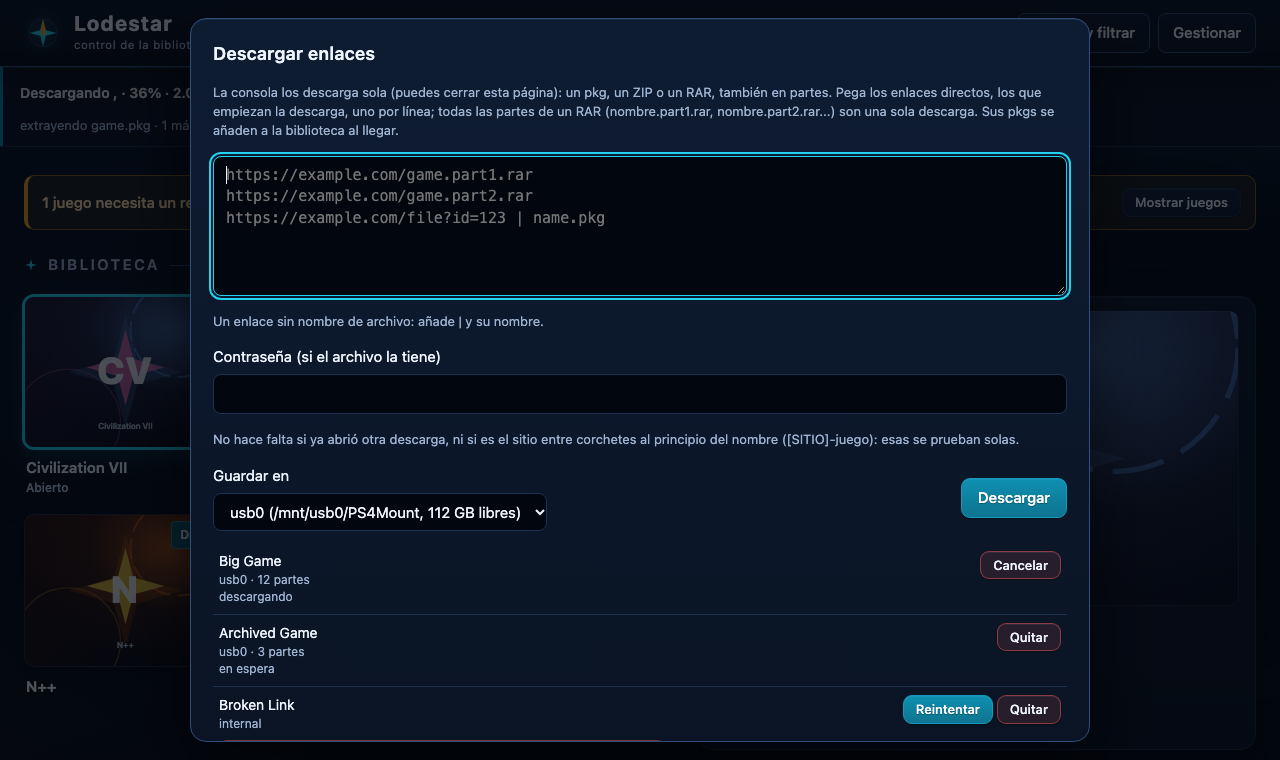
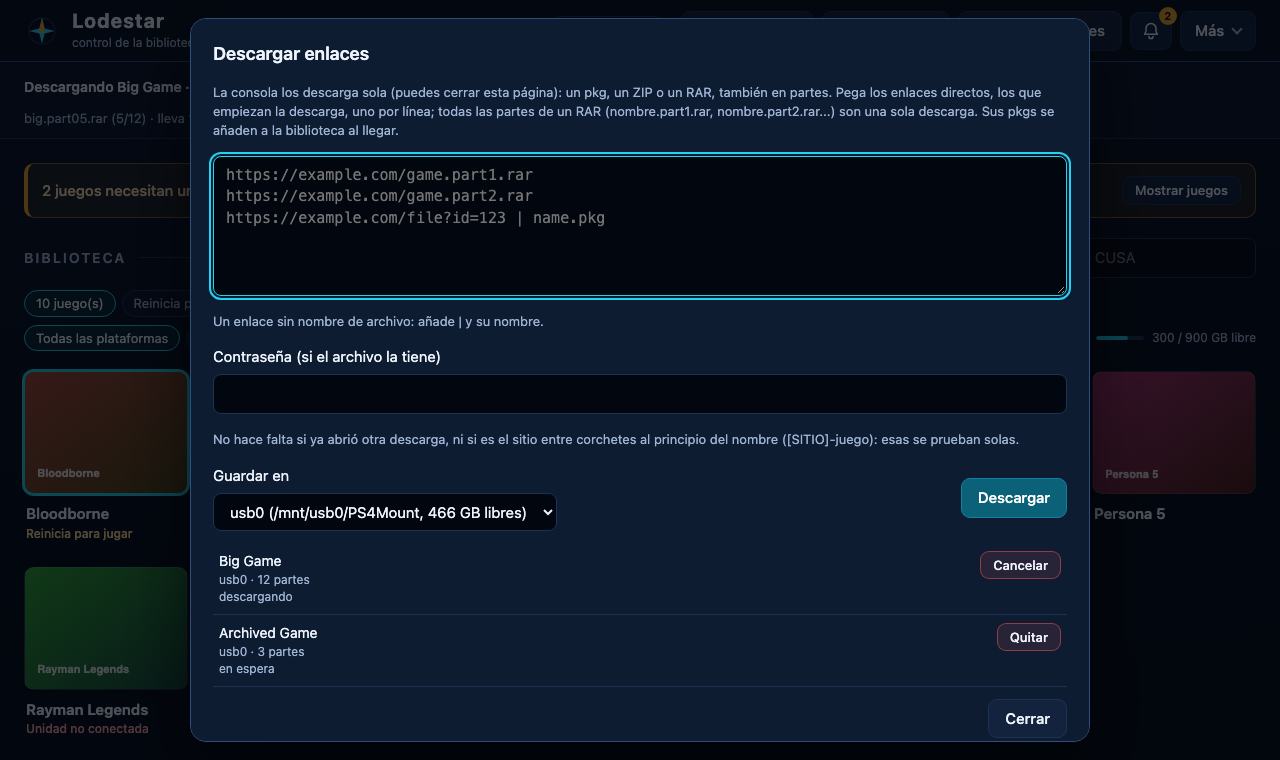
Document hard-drive performance and known issues; drop unused files
The README explains why a spinning drive streams an update plus add-ons
slowly (measured on CUSA23827), recommends a USB SSD, links the known
issues on GitHub, describes the reorganized panel and maps the folders.
Screenshots are retaken from the current panel; captures nothing
references and the leftover Google Drive root certificate are removed.

diff --git a/README.md b/README.md
@@ -66,7 +66,7 @@ Probado en una PS4 con firmware **13.52** y GoldHEN; también funciona en **14.0
 - Una PS4 con jailbreak y **GoldHEN** (con su BinLoader activado, el puerto 9090).
 - Una forma de cargar payloads: **Payloader/Launchpad** de GoldHEN (recomendado), Payload Guest, o **Ajustes → Arrancar con la consola** en el panel.
 - Pkgs **fake** de PS4 (`CUSA…`).
-- Para jugar desde USB: un disco formateado en **exFAT**.
+- Para jugar desde USB: un disco formateado en **exFAT**. Mejor un **SSD**: con un disco duro mecánico algunos juegos cargan lento (ver [Rendimiento](#rendimiento-disco-duro-mecánico-o-ssd)).
 
 ## Uso
 
@@ -88,11 +88,12 @@ La consola solo prepara algunos juegos nuevos al arrancar. Cuando Lodestar regis
 
 ### El panel
 
-![Biblioteca de Lodestar](docs/panel-main-es.png)
+- **Arriba**: **Buscar juegos** (vuelve a mirar las unidades), **Enviar juegos**, **Descargar enlaces**, la campana de notificaciones y **Más** (Ajustes, Quitar varios, Log y Detener).
+- **Encima de la parrilla**: el buscador, los filtros por estado (Listo, Reinicia para jugar, Unidad no conectada…) y por plataforma, y el espacio libre de cada unidad.
+- **La parrilla**: una carátula por juego. Al pulsarla se abre su ficha: versión, DLC, firmware que necesita, dónde están sus pkgs y las acciones (quitar o añadir a la biblioteca, restaurar sus archivos originales).
+- **Ajustes**: biblioteca (carpetas, organizar, memoria interna, grupos), DLC, consola (idioma, AutoRun, log del sistema), lo que Lodestar ocupa en la consola y restaurar archivos originales.
 
-La biblioteca es una parrilla densa de carátulas. Al abrir un juego aparece su ficha bajo demanda, con acciones como quitar/añadir de la biblioteca, ver rutas, actualizar contenido o borrar. No hay una ficha grande permanente ocupando media pantalla.
-
-Botones principales: **Buscar juegos**, **Enviar juegos**, **Descargas**, **Ajustes**, **Log** y **Detener**.
+En la app de la consola se maneja con el mando: flechas para moverse, X para abrir, círculo para volver.
 
 #### API para agentes y scripts
 
@@ -117,7 +118,7 @@ Lodestar puede descargar en la propia consola:
 - un `.zip`;
 - un `.rar`, incluidos RAR en partes y RAR con contraseña.
 
-Pega el enlace en **Descargas**, elige destino y la consola baja y extrae sin usar un PC. Una descarga interrumpida se reanuda al cargar Lodestar otra vez.
+Pega el enlace en **Descargar enlaces**, elige destino y la consola baja y extrae sin usar un PC. Una descarga interrumpida se reanuda al cargar Lodestar otra vez.
 
 ### Extensión del navegador
 
@@ -143,6 +144,23 @@ Al borrar un juego añadido por Lodestar desde la pantalla de inicio, Lodestar b
 - `/data/ps4mount/<CUSA…>.src`: de dónde salió cada juego.
 - `/data/ps4mount/stop`: si existe, Lodestar se detiene.
 
+## Rendimiento: disco duro mecánico o SSD
+
+Lodestar lee los juegos directamente de los pkgs del USB, así que la velocidad depende del disco. Con un **SSD** no hay problema. Con un **disco duro mecánico**, los juegos que leen a la vez su actualización y varios DLC pueden cargar lento: cada cambio de archivo mueve el cabezal, y si los archivos están lejos unos de otros en el plato, ese movimiento es casi todo el disco.
+
+Medido en la consola con un disco duro de 2.5" lleno al 91 %, donde la actualización y los DLC de un juego quedaron a 400-450 GB unos de otros ([#1](https://github.com/felipebasurto/Lodestar-PS4/issues/1)):
+
+| | Velocidad |
+| --- | --- |
+| Un solo archivo seguido | ~92 MiB/s |
+| Actualización + 4 DLC a la vez | ~22 MiB/s en total |
+
+Lodestar no puede cambiar dónde están los archivos en el disco. Qué puedes hacer:
+
+1. **Usar un SSD USB.** Es la solución.
+2. Con un disco duro: copia cada juego **con su actualización y sus DLC juntos y seguidos**, en un disco con mucho espacio libre (mejor recién formateado). No llenes el disco hasta el final.
+3. Para ver cómo están los archivos de un juego en tu disco, conéctalo a un Mac o Linux, desmóntalo y ejecuta `sudo python3 tools/exfatmap.py /dev/rdiskN <ruta del pkg>...` (solo lee).
+
 ## Problemas frecuentes
 
 ### El panel no abre
@@ -163,6 +181,15 @@ El explicador está en español por defecto; usa `--lang en` para inglés.
 
 Lodestar conserva la entrada en la pantalla de inicio, pero el juego no arranca hasta volver a conectar la unidad donde están sus pkgs. No muevas los pkgs manualmente mientras la consola los está usando.
 
+## Problemas conocidos
+
+Los fallos conocidos y las mejoras pendientes están en [Issues](https://github.com/felipebasurto/Lodestar-PS4/issues). Los principales:
+
+- [#1](https://github.com/felipebasurto/Lodestar-PS4/issues/1) Carga lenta con discos duros mecánicos cuando un juego lee la actualización y varios DLC a la vez.
+- [#7](https://github.com/felipebasurto/Lodestar-PS4/issues/7) Un juego nuevo necesita reiniciar la consola una vez.
+- [#4](https://github.com/felipebasurto/Lodestar-PS4/issues/4), [#5](https://github.com/felipebasurto/Lodestar-PS4/issues/5) Clásicos de PS1/PS2/PSP y ROM de emuladores: falta comprobarlos en consola.
+- [#11](https://github.com/felipebasurto/Lodestar-PS4/issues/11) Solo probado en los firmwares 13.52 y 14.00.
+
 ## Desarrollo
 
 Las reglas para agentes y personas que modifiquen el código están en [AGENTS.md](AGENTS.md) y [AI-WORKFLOW.md](AI-WORKFLOW.md). Las decisiones de comportamiento viven en `specs/`. Antes de cada commit:
@@ -174,6 +201,17 @@ bash test/sdkcheck.sh
 (cd test/web && npm test)
 ```
 
+| Carpeta | Contenido |
+| --- | --- |
+| `src/` | El payload en C (escaneo, registro, montajes, panel HTTP, descargas) |
+| `web/` | El panel: `index.html`, `legacy.html` (navegador de la PS4) y las traducciones |
+| `panel-app/` | La app de la consola que abre el panel |
+| `extension/` | La extensión del navegador |
+| `specs/` | Las reglas de comportamiento, por área |
+| `test/` | Pruebas en el PC (C, Python y el panel en jsdom) |
+| `tools/` | `logcheck.py` (explica el log), `exfatmap.py` (mapa de un disco exFAT), `benchdisk` |
+| `evidence/` | Mediciones hechas en consola |
+
 ---
 
 <a name="english"></a>
@@ -184,6 +222,8 @@ Lodestar is a payload for a jailbroken PS4. Put a game's packages (with its upda
 Lodestar is deliberately focused on USB hard drives and local storage. **It does not include Google Drive, NAS, SMB, NFS or FUSE**: those features were removed to reduce surface area, dependencies and hard-to-diagnose failures.
 
 The web panel shows the library as a dense artwork grid, closer to a Steam library. A game's details and actions open only on demand instead of a permanent details pane taking half the screen.
+
+![The Lodestar panel](docs/panel-main.png)
 
 Tested on a PS4 running firmware **13.52** with GoldHEN; it also works on **14.00**. The panel and notifications are in **Spanish and English**: they follow the console language (English when it is neither), and can be changed in **Settings → Language**.
 
@@ -221,7 +261,7 @@ Tested on a PS4 running firmware **13.52** with GoldHEN; it also works on **14.0
 - A jailbroken PS4 with **GoldHEN** (BinLoader enabled, port 9090).
 - A way to load payloads: GoldHEN **Payloader/Launchpad** (recommended), Payload Guest, or the panel's **Start with the console** setting.
 - PS4 **fake** packages (`CUSA…`).
-- For USB play: an **exFAT** formatted drive.
+- For USB play: an **exFAT** formatted drive. An **SSD** is best: with a spinning hard drive some games load slowly (see [Performance](#performance-hard-drive-or-ssd)).
 
 ## Use
 
@@ -243,9 +283,12 @@ The console prepares some new games only during boot. When Lodestar registers a 
 
 ### The panel
 
-The library is a dense artwork grid. Opening a game shows its details on demand, with actions such as removing/adding it to the library, inspecting paths, refreshing content or deleting it. There is no permanent large details pane consuming half the screen.
+- **Top**: **Scan for games** (looks at the drives again), **Send games**, **Download links**, the notifications bell and **More** (Settings, Remove several, Log and Stop).
+- **Above the grid**: the search field, the filters by state (Ready, Restart to play, Drive not connected…) and by platform, and each drive's free space.
+- **The grid**: one artwork per game. Choosing it opens its details: version, add-ons, required firmware, where its pkgs are, and its actions (remove from or add to the library, restore its original files).
+- **Settings**: library (folders, organize, internal storage, groups), add-ons, console (language, AutoRun, system log), what Lodestar keeps on the console, and restoring original files.
 
-Main actions: **Scan for games**, **Send games**, **Downloads**, **Settings**, **Log** and **Stop**.
+In the console app it works with the controller: arrows to move, X to open, circle to go back.
 
 #### Agent and script API
 
@@ -266,7 +309,7 @@ Lodestar can download directly on the console:
 - a `.zip`;
 - a `.rar`, including multipart and password-protected RAR archives.
 
-Paste the link in **Downloads**, choose a destination, and the console downloads and extracts it without a PC. An interrupted download resumes when Lodestar is loaded again.
+Paste the link in **Download links**, choose a destination, and the console downloads and extracts it without a PC. An interrupted download resumes when Lodestar is loaded again.
 
 ### Browser extension
 
@@ -292,6 +335,23 @@ Deleting a Lodestar-added game from the home screen also deletes its library pkg
 - `/data/ps4mount/<CUSA…>.src`: where each game came from.
 - `/data/ps4mount/stop`: if present, Lodestar stops.
 
+## Performance: hard drive or SSD
+
+Lodestar reads games straight from the pkgs on the drive, so speed depends on the drive. With an **SSD** there is no problem. With a **spinning hard drive**, games that read their update and several add-ons at once can load slowly: every switch between files moves the head, and when the files are far apart on the platter that move crosses almost the whole disk.
+
+Measured on the console with a 2.5" hard drive 91% full, where a game's update and add-ons ended up 400-450 GB apart ([#1](https://github.com/felipebasurto/Lodestar-PS4/issues/1)):
+
+| | Speed |
+| --- | --- |
+| One file, read in order | ~92 MiB/s |
+| Update + 4 add-ons at once | ~22 MiB/s in total |
+
+Lodestar cannot change where files sit on the disk. What you can do:
+
+1. **Use a USB SSD.** That is the fix.
+2. With a hard drive: copy each game **with its update and add-ons together, one after the other**, onto a drive with plenty of free space (freshly formatted is best). Do not fill the drive to the end.
+3. To see where a game's files are on your drive, connect it to a Mac or Linux machine, unmount it and run `sudo python3 tools/exfatmap.py /dev/rdiskN <pkg path>...` (read only).
+
 ## Frequent problems
 
 ### The panel does not open
@@ -310,6 +370,15 @@ python3 tools/logcheck.py log.txt --lang en
 
 Lodestar keeps the home-screen entry, but the game does not launch until the drive containing its pkgs is connected again. Do not move packages manually while the console is using them.
 
+## Known issues
+
+Known bugs and pending improvements are in [Issues](https://github.com/felipebasurto/Lodestar-PS4/issues). The main ones:
+
+- [#1](https://github.com/felipebasurto/Lodestar-PS4/issues/1) Slow loading on spinning hard drives when a game reads its update and several add-ons at once.
+- [#7](https://github.com/felipebasurto/Lodestar-PS4/issues/7) A new game needs one console restart.
+- [#4](https://github.com/felipebasurto/Lodestar-PS4/issues/4), [#5](https://github.com/felipebasurto/Lodestar-PS4/issues/5) PS1/PS2/PSP classics and emulator ROMs still need console verification.
+- [#11](https://github.com/felipebasurto/Lodestar-PS4/issues/11) Only tested on firmware 13.52 and 14.00.
+
 ## Development
 
 Rules for agents and people changing the code are in [AGENTS.md](AGENTS.md) and [AI-WORKFLOW.md](AI-WORKFLOW.md). Behavior decisions live in `specs/`. Before every commit:
@@ -320,3 +389,14 @@ bash test/policy.sh
 bash test/sdkcheck.sh
 (cd test/web && npm test)
 ```
+
+| Folder | Contents |
+| --- | --- |
+| `src/` | The payload in C (scan, registration, mounts, HTTP panel, downloads) |
+| `web/` | The panel: `index.html`, `legacy.html` (the PS4's browser) and translations |
+| `panel-app/` | The console app that opens the panel |
+| `extension/` | The browser extension |
+| `specs/` | Behavior rules, by area |
+| `test/` | Host tests (C, Python and the panel in jsdom) |
+| `tools/` | `logcheck.py` (explains the log), `exfatmap.py` (maps an exFAT drive), `benchdisk` |
+| `evidence/` | Measurements taken on the console |

diff --git a/CHANGELOG.md b/CHANGELOG.md
@@ -1,6 +1,14 @@
 # Changelog
 
-PS4Mount PS4 is a PS4-only port of [PS4Mount](https://github.com/gasb07/ps4mount) by gasb07 (PS5); its versions start again at 0.1.0. The history of the original is in its project and in this repository's git history.
+Lodestar (PS4Mount PS4 before 2.0.0) began as a PS4-only port of [PS4Mount](https://github.com/gasb07/ps4mount) by gasb07 (PS5); its versions start again at 0.1.0. The history of the original is in its project and in this repository's git history.
+
+## Unreleased
+
+**A cleaner panel and honest advice for hard drives.** Search, the state and platform filters and each drive's free space now sit above the grid; Scan for games, Send games, Download links and the notifications bell are always visible in the header, and the rest (Settings, Remove several, Log, Stop) is under **More**. Settings are grouped as Library, Add-ons and Console, with Save and Cancel always in view. In the PS4 app, Up/Down leave the search field so the controller is never trapped there. The README explains why a spinning hard drive can stream a game's update and add-ons slowly (measured: ~92 MiB/s for one file, ~22 MiB/s for an update plus four add-ons whose files sit 400-450 GB apart) and recommends a USB SSD. `tools/exfatmap.py` reads macOS raw devices (`/dev/rdisk*`). Known bugs and pending work are tracked in GitHub issues. Unused screenshots and a leftover Google Drive certificate file are removed.
+
+**Español**
+
+**Un panel más limpio y consejos claros para discos duros.** El buscador, los filtros por estado y plataforma y el espacio libre de cada unidad están ahora encima de la parrilla; Buscar juegos, Enviar juegos, Descargar enlaces y la campana de notificaciones se ven siempre en la cabecera, y el resto (Ajustes, Quitar varios, Log, Detener) está en **Más**. Los ajustes se agrupan en Biblioteca, DLC y Consola, con Guardar y Cancelar siempre a la vista. En la app de la PS4, arriba/abajo salen del buscador para que el mando nunca se quede atrapado. El README explica por qué un disco duro mecánico puede leer lento la actualización y los DLC de un juego (medido: ~92 MiB/s con un archivo, ~22 MiB/s con una actualización y cuatro DLC separados 400-450 GB en el disco) y recomienda un SSD USB. `tools/exfatmap.py` lee los dispositivos crudos de macOS (`/dev/rdisk*`). Los fallos conocidos y el trabajo pendiente están en los issues de GitHub. Se quitan capturas sin uso y un certificado sobrante de Google Drive.
 
 ## 3.0.0
 
